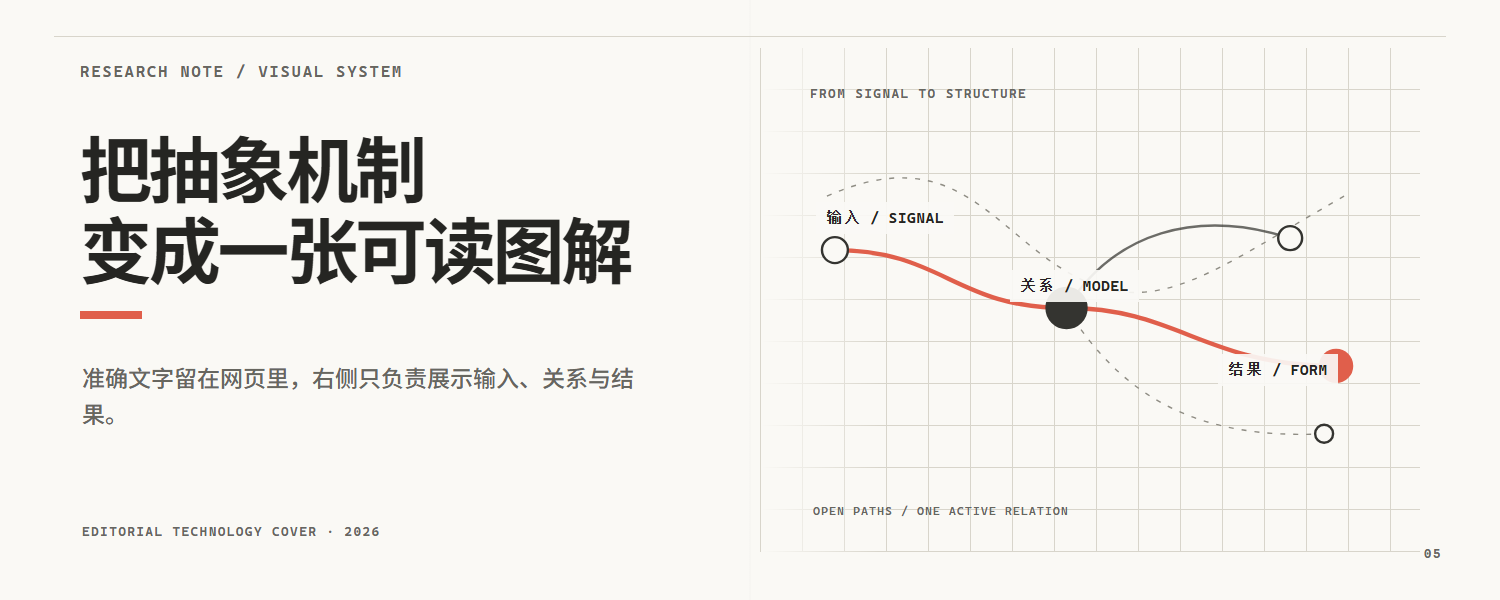
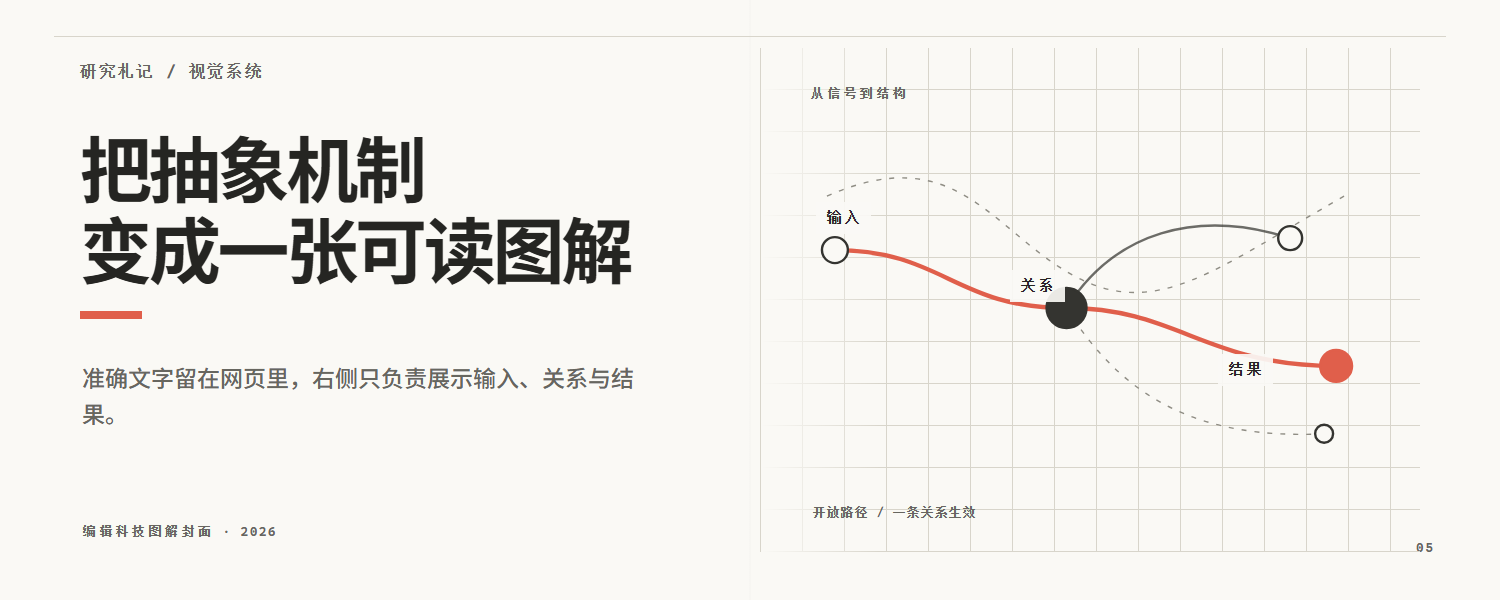
fix: isolate visual language and style sources

diff --git a/assets/web-card-cases/editorial-technology-diagram-cover/index.html b/assets/web-card-cases/editorial-technology-diagram-cover/index.html
@@ -52,15 +52,6 @@
       height: 1px;
       background: var(--line);
     }
-    .media-canvas::after {
-      content: "05";
-      position: absolute;
-      right: 58px;
-      bottom: 40px;
-      color: var(--muted);
-      font: 700 13px/1 var(--font-mono);
-      letter-spacing: .12em;
-    }
     [data-editable-id] { position: absolute; }
     .kicker, .metadata, .diagram-title {
       margin: 0;
@@ -93,6 +84,7 @@
     }
     .deck { left: 82px; top: 360px; width: 560px; height: 74px; margin: 0; color: var(--muted); font-size: 23px; font-weight: 500; line-height: 1.55; }
     .metadata { left: 82px; top: 520px; width: 560px; height: 24px; font-size: 13px; font-weight: 700; line-height: 24px; }
+    .folio { left: 1416px; top: 538px; width: 28px; height: 20px; color: var(--muted); font: 700 13px/20px var(--font-mono); letter-spacing: .12em; }
 
     .diagram-stage {
       left: 760px;
@@ -136,7 +128,7 @@
     .input-label { left: 816px; top: 202px; }
     .model-label { left: 1010px; top: 270px; }
     .result-label { left: 1218px; top: 354px; }
-    .micro-copy { position: absolute; left: 52px; bottom: 32px; color: var(--muted); font: 600 12px/1.4 var(--font-mono); letter-spacing: .08em; }
+    .micro-copy { left: 52px; top: 454px; width: 360px; height: 20px; color: var(--muted); font: 600 12px/20px var(--font-mono); letter-spacing: .08em; }
 
     body.capture { width: calc(var(--canvas-width) * 1px); height: calc(var(--canvas-height) * 1px); min-height: 0; display: block; overflow: hidden; background: transparent; }
     body.capture .app, body.capture .viewport { width: calc(var(--canvas-width) * 1px); height: calc(var(--canvas-height) * 1px); display: block; padding: 0; overflow: visible; }
@@ -153,6 +145,7 @@
           <h1 class="title" data-editable-data="title" data-editable-id="title"></h1>
           <p class="deck" data-editable-data="deck" data-editable-id="deck"></p>
           <p class="metadata" data-editable-data="metadata" data-editable-id="metadata"></p>
+          <span class="folio" data-editable-data="folio" data-editable-id="folio"></span>
           <section class="diagram-stage" id="diagram-stage" data-editable-id="diagram-stage">
             <svg class="diagram-lines" viewBox="0 0 608 378" aria-hidden="true">
               <path class="quiet" d="M42 76 C172 18 208 112 290 156 S430 150 560 76"/>
@@ -166,7 +159,7 @@
               <circle class="result" cx="552" cy="246" r="16"/>
               <circle cx="540" cy="314" r="9"/>
             </svg>
-            <span class="micro-copy">OPEN PATHS / ONE ACTIVE RELATION</span>
+            <span class="micro-copy" data-editable-data="micro_copy" data-editable-id="micro-copy"></span>
           </section>
           <p class="diagram-title" data-editable-data="diagram_title" data-editable-id="diagram-title"></p>
           <p class="node-label input-label" data-editable-data="input_label" data-editable-id="input-label"></p>

diff --git a/references/review-and-export.md b/references/review-and-export.md
@@ -6,7 +6,7 @@
 
 - 网页项目能够按清单声明的交付方式在真实浏览器打开，场景、内容版式、输出变体、数据、视觉变量和播放状态从各自唯一位置修改。
 - 可编辑网页包的清单是场景、步骤、播放方式、内容版式合同、输出变体、默认数据、主题、资源与量化质量规则的权威配置，HTML 没有平行保存另一份同名值。
-- 项目 `style-profile.json` 的共享视觉核心与网页字体、颜色、材质、图形和素材处理一致；静态、时间和交互实现只在各自声明的成品类型中生效。目标载体不适用的实现层没有被临场继承，实拍或剪辑型视频没有把镜头、剪辑和声音写回视觉档案。
+- 项目 `style-profile.json` 记录的视觉来源已经由当前媒体项目或用户确认采用，共享视觉核心与网页字体、颜色、材质、图形和素材处理一致；仓库中未被采用的旧图、相邻成品和案例预览没有成为隐含配色来源。静态、时间和交互实现只在各自声明的成品类型中生效。目标载体不适用的实现层没有被临场继承，实拍或剪辑型视频没有把镜头、剪辑和声音写回视觉档案。
 - 对用户要求的每个“输出变体 × 场景”运行 `scripts/validate-editable-media.mjs`；清单、素材槽位、稳定图层 ID、本地资源、`window.editableMedia` 接口、唯一画布根元数据、`window.__hf.duration/seek(seconds)`、三种播放控制、真实边界和项目质量规则全部通过。项目中的场景覆盖值关闭重开后仍存在。
 - 使用外部、用户提供或生成素材时能够找到 v3 `media-sources.json`，并通过 `scripts/validate-media-sources.mjs` 证明实际文件、字节数、SHA-256、来源、授权、用途、主体位置、各输出变体裁切以及原片与代理等价关系一致；网页清单里的必需素材槽位绑定有效 source id，浏览器运行时从账本解析实际文件，清单和 `resources` 没有再保存一份媒体路径。
 - 使用注册媒体资源时能够找到 `media-resource-adoptions.json`，并证明注册包哈希、采用后的 source id 或完整网页包、项目消费者读取结果一致；只有注册或采用记录，没有活动场景、视频或音频消费者引用时，不算进入当前成品。
@@ -26,7 +26,7 @@
 
 ### 网页视觉
 
-在目标画布尺寸检查字体、中文与符号、图片和图标加载、层级、重叠、裁切、溢出、安全区、导航避让、标题间距、底部空白、背景和捕获控件。再把完整画布适配到普通浏览器窗口，确认网页能够看全，并逐项检查标题、正文、标签、栏头、署名、链接和指标在真实显示比例下是否清楚。对需要共同对齐的左右内容读取实际边界，核对选定的基线、顶部、底部或中心关系；同时查看大面积色块的明暗、冷暖和面积是否形成同一套共享视觉核心。社交卡和封面再缩到约 360 像素宽或目标平台实际缩略图尺寸，确认静态构图实现中的标题、主体和主要证据仍可识别；多比例、多场景项目分别打开每个“输出变体 × 场景”，不能只检查默认状态。用户提供标注截图时，按标注区域逐项复查。动画逐场景检查时间运动实现中的进入、步骤、核心变化、结果保持、退出、局部循环衔接和相同时间点的确定性；复杂场景先查看由真实运行时生成的开始、全部必要变化和结果关键状态图，再完整播放检查状态之间的运动。使用镜头时核对它确实帮助解释空间或注意力、景深外文字始终清楚、对象运动与镜头外层没有争夺同一 transform。交互演示实际使用键盘、滚轮或触摸完成一遍前后推进，并核对交互实现没有改写画布内语义时间线；自动播放实际连续经过全部场景，混合播放实际在场景边界停下。有方向的变化到达结果后不能被局部循环意外重置；整条时间线只有在内容本身没有叙事推进且首尾含义等价时才检查无缝总循环。
+在目标画布尺寸检查字体、中文与符号、图片和图标加载、层级、重叠、裁切、溢出、安全区、导航避让、标题间距、底部空白、背景和捕获控件。清点最终画布中观众能读到的标题、正文、标签、栏头、署名、来源、元信息、页码、按钮、微文案、SVG 文字和伪元素内容，确认它们服从同一语言合同，保留外文的位置属于已经允许的正式名称或专用记法。再把完整画布适配到普通浏览器窗口，确认网页能够看全，并逐项检查这些文字和指标在真实显示比例下是否清楚。对需要共同对齐的左右内容读取实际边界，核对选定的基线、顶部、底部或中心关系；文字位于形状、节点或徽章内时，还要把文字块与实际可见承载形状换算到同一画布坐标并比较中心，清单边界与 CSS 坐标一致不能代替这项检查。同时查看大面积色块的明暗、冷暖和面积是否形成同一套共享视觉核心。社交卡和封面再缩到约 360 像素宽或目标平台实际缩略图尺寸，确认静态构图实现中的标题、主体和主要证据仍可识别；多比例、多场景项目分别打开每个“输出变体 × 场景”，不能只检查默认状态。用户提供标注截图时，把每个标注区域对应到具体文字、承载形状或布局关系后逐项复查。动画逐场景检查时间运动实现中的进入、步骤、核心变化、结果保持、退出、局部循环衔接和相同时间点的确定性；复杂场景先查看由真实运行时生成的开始、全部必要变化和结果关键状态图，再完整播放检查状态之间的运动。使用镜头时核对它确实帮助解释空间或注意力、景深外文字始终清楚、对象运动与镜头外层没有争夺同一 transform。交互演示实际使用键盘、滚轮或触摸完成一遍前后推进，并核对交互实现没有改写画布内语义时间线；自动播放实际连续经过全部场景，混合播放实际在场景边界停下。有方向的变化到达结果后不能被局部循环意外重置；整条时间线只有在内容本身没有叙事推进且首尾含义等价时才检查无缝总循环。
 
 当前网页实际包含相应元素时，再检查成品细修结果：字体加载后标题与正文的真实换行没有突兀孤行，也没有因为均衡换行超出版式容量；动态数字通过活动数据字段或时间状态读取至少两个真实取值，数值变化没有推动共享列和相邻内容；嵌套圆角、图片边缘、阴影与分隔线能够说明各自的包含、层次或结构职责；不对称图标和形状在最终显示比例下视觉居中，图标细节与线宽没有粘连或压过相邻文字。手动或混合播放控件在目标输入方式下逐个实际使用，相邻命中区域不重叠，中途改变操作时反馈能够立即返回当前状态；浏览器没有因为未限定的过渡属性产生意外位移、尺寸或阴影动画。只检查当前成品真实存在的元素，不为凑齐项目制造嵌套圆角、图标、动态数字或交互控件。
 

diff --git a/references/technical-diagram-production.md b/references/technical-diagram-production.md
@@ -6,7 +6,7 @@
 
 先把当前内容拆成四类：观众必须在画面中直接理解的机制；只需作为标题、标签或节点名出现的文字；适合放进配套帖、封面文案或发布文案的传播句；仅供制作者使用的备注。传播句不能因为醒目就自动进入图内，制作备注也不能成为观众可见字段。
 
-再检查范围。通用科普图只使用跨产品成立的节点、动作和结果；项目名、内部模块、专有操作和一次性业务词留在项目案例，不冒充普遍定义。可见文案优先中文，只有标准缩写、协议名、函数名、命令、字段或翻译后会失真的专用名词保留英文。标题说“一图看懂”时，主体必须提供可沿线阅读的机制，不能只把三个文字定义装进三个框。
+再检查范围。通用科普图只使用跨产品成立的节点、动作和结果；项目名、内部模块、专有操作和一次性业务词留在项目案例，不冒充普遍定义。全部可见文案服从当前媒体语言合同；中文成品使用中文标题、节点、栏头、元信息和微文案，只有合同已经允许的标准缩写、协议名、函数名、命令、字段或翻译后会失真的专用名词保留英文。标题说“一图看懂”时，主体必须提供可沿线阅读的机制，不能只把三个文字定义装进三个框。
 
 ## 二、选择真正的图解结构
 
@@ -18,7 +18,7 @@
 
 ## 三、建立图形与连线系统
 
-节点内部先分出图标、标题、说明、参数或状态，再给每个区域留出独立边距。采用一个来源清楚、许可证允许的统一图标家族；同一作品不混用线性、填充、拟物和临时手画图标。图标与文字按光学中心对齐，在目标尺寸读取浏览器真实边界，不能只相信 CSS 的数学居中。没有合适图标时使用简单几何符号，不用复杂但语义含糊的装饰代替。
+节点内部先分出图标、标题、说明、参数或状态，再给每个区域留出独立边距。采用一个来源清楚、许可证允许的统一图标家族；同一作品不混用线性、填充、拟物和临时手画图标。每个形状内标签都对应一个实际可见的承载形状；等待字体加载后，分别读取文字块与承载形状的浏览器边界，SVG 圆、路径和多边形还要把可见几何边界换算到同一画布坐标，先比较水平与垂直中心，再在目标尺寸和缩略图检查光学中心。清单 `default_bounds`、文字自身没有越界或 CSS 数学居中都不能代替这项关系检查。没有合适图标时使用简单几何符号，不用复杂但语义含糊的装饰代替。
 
 已对齐节点之间直接连接；需要绕行时只使用必要数量的水平、垂直线段和直角转折，形成最短可读的正交路径。路径从节点边框出发并落到目标边框，不穿过文字、图标或无关节点。虚线只表示明确命名的反馈、可选、异步或间接关系；不能与容器边框重合，也不能出现没有语义的半截横条、彩色短线、下划线或悬空连接。每一条线都应能回答“从哪里到哪里、传递什么”。
 
@@ -34,7 +34,7 @@
 
 ## 五、验收
 
-静态图在目标画布与约 360 像素宽缩略图检查标题、机制顺序、栏间比较、共享底座和署名。用浏览器真实边界检查所有文字没有碰框或越界，图标与标签的光学中心合理，连接端点落在节点边界，虚线和结构线没有重合或无解释片段。
+静态图在目标画布与约 360 像素宽缩略图检查标题、机制顺序、栏间比较、共享底座和署名。清点标题、节点、栏头、元信息、微文案、SVG 文字和其它可见字符串，确认它们服从同一语言合同。用浏览器真实边界检查所有文字没有碰框或越界，并逐一比较形状内标签与实际承载形状的中心；用户提供标注截图时，直接复查标注标签及其承载形状。图标与标签的光学中心合理、连接端点落在节点边界、虚线和结构线没有重合或无解释片段后才通过。
 
 动态图至少捕获开始、每个语义事件、结果和结束状态，并运行以下检查：静态图层的几何、文字、线宽、颜色和亮度在全部关键状态保持不变；每个事件只沿声明路径发生一次；每个光点和尾迹与当前路径同色；文字边界、图标间距和字体加载在各状态通过。随后完整播放，确认路径顺序、停留和循环不会增加眼部负担。
 

diff --git a/references/visual-production-profiles.md b/references/visual-production-profiles.md
@@ -4,12 +4,16 @@
 
 ## 一、选择与继承
 
+先把当前材料分成内容或素材来源与已经采用的视觉来源。仓库中的 README、旧封面、其它成品、相邻目录图片和案例预览可以提供事实、素材或制作证据，但不会因为与任务放在同一仓库就自动决定本次字体、颜色、材质和构图。同一项目或系列的风格档案只有在已经为这项媒体工作确认或明确采用时才是视觉来源；用户提供的品牌规范或参考样本，也只在用户要求采用的视觉层生效。
+
 按以下顺序确定配方：
 
-1. 当前项目已经确认的风格档案继续作为唯一风格来源。
+1. 当前媒体项目或系列已经确认并采用的风格档案继续作为唯一风格来源。
 2. 用户提供品牌规范或参考样本时，只提取用户要求的视觉、运动或包装层，并形成项目风格档案。
 3. 没有既有来源时，根据内容与载体选择本文件中的内置配方。
 4. 没有配方适用时，根据内容关系形成中性方向，不为了使用配方扭曲内容。
+
+内置配方规定使某类内容成立的视觉关系、材质、色彩职责和实现方法；案例中的具体色值、文字、坐标、比例和装饰只是该案例的取值。选择配方后，根据当前内容、受众、载体与已采用素材重新确定实际调色板和构图，并保存为本项目的风格档案。案例、starter 或仓库中碰巧存在的作品没有被当前项目采用时，不参与这一步，也不能改变已经由当前内容确定的视觉方向。
 
 Agent 默认直接选择一个方向并用一句话说明理由。只有两个方向会造成明显不同的受众理解、品牌气质、素材要求或制作成本，而且现有上下文无法判断时，才询问用户。用户否定方向时保留内容真源，回到风格样稿，不重新发明媒体文案。
 

diff --git a/references/content-to-media.md b/references/content-to-media.md
@@ -57,6 +57,8 @@
 - 口播、同期声、字幕、画面文字、视觉和配套帖子各自承担什么，关闭其中一个通道后还需要保留多少理解。
 - 用户明确要求的语言、时长、数量、格式、逐字保留内容和只使用给定材料等限制。
 
+语言合同覆盖观众最终能够看到或听到的全部文字，不只覆盖标题、正文和口播。先确定成品主语言，以及允许原样保留的正式名称、标准缩写、协议、函数、命令或其它专名；标题、正文、字幕、数据标签、图解节点、栏头、署名、来源、元信息、页码、按钮、微文案、SVG 文字和网页伪元素中的可读内容随后都从这份合同派生。模板、案例、现有网页和生成素材里的示范文字只说明结构，不把自己的语言带进当前成品；生产备注继续留在项目状态，不进入观众可见字段。
+
 开头先完成当前受众理解第一段内容所需的最短背景。人物、事件、采访动作和核心问题能够在一句中自然交代时合并表达，不把没有新增信息的说明单独悬置。原声片段之后仍要用必要背景重新锚定人物、场景和未回答的问题；它不能替代背景。对象同时有正式名称和大众熟悉称呼时，在指向准确的前提下优先使用受众听得懂的称呼。
 
 个人或系列内容先用 `editorial_position` 选择核心判断、评价方向和信息边界，再从实际声音证据生成本次 `voice_contract`，完成标题、口播、字幕、节目连接语和配套帖的实际表达。没有个人声音证据时明确使用普通直接表达，不用外部案例或固定口头禅补出作者身份。

diff --git a/references/media-writing.md b/references/media-writing.md
@@ -15,6 +15,8 @@
 
 当前真源决定能说什么，各通道职责决定这一份文字保留什么。缺少会改变事实、主张或对象关系的信息时返回具体缺口并停止，不用常识补写。轻量动作不主动研究主题、不发现新材料、不读取口播私人库，也不重新决定作者声音。
 
+当前语言覆盖所有观众可见或可听的派生文字。除了语言合同已经允许原样保留的正式名称、标准缩写和专用记法，节点标签、栏目名、元信息、页码、按钮、微文案、SVG 文字和其它装饰位置的可读内容，也使用与标题、字幕相同的语言；案例或模板中的示范词不作为当前文字来源。
+
 ## 二、按文字职责派生
 
 ### 标题与开头短句
@@ -51,6 +53,7 @@
 - 压缩后是否丢失比较对象、条件、否定范围或必要边界；
 - 同一信息是否在标题、字幕、画面和配套文字中无意义重复；
 - 文字是否能在目标画面、语速和版面中被看清或听清；
+- 所有观众可见或可听的文字是否服从同一语言合同，保留外文的位置是否确实属于已经允许的专名或记法；
 - 是否出现正文没有证明的新承诺、第一人称经历或结论。
 
 按用户要求的格式交付实际文字。需要多个通道时分别标明职责，不把制作备注混入正文。活动口播仍是配音、字幕和画面文字的唯一语义真源；派生文本发现内容问题时返回口播真源修改，再统一重新生成。
